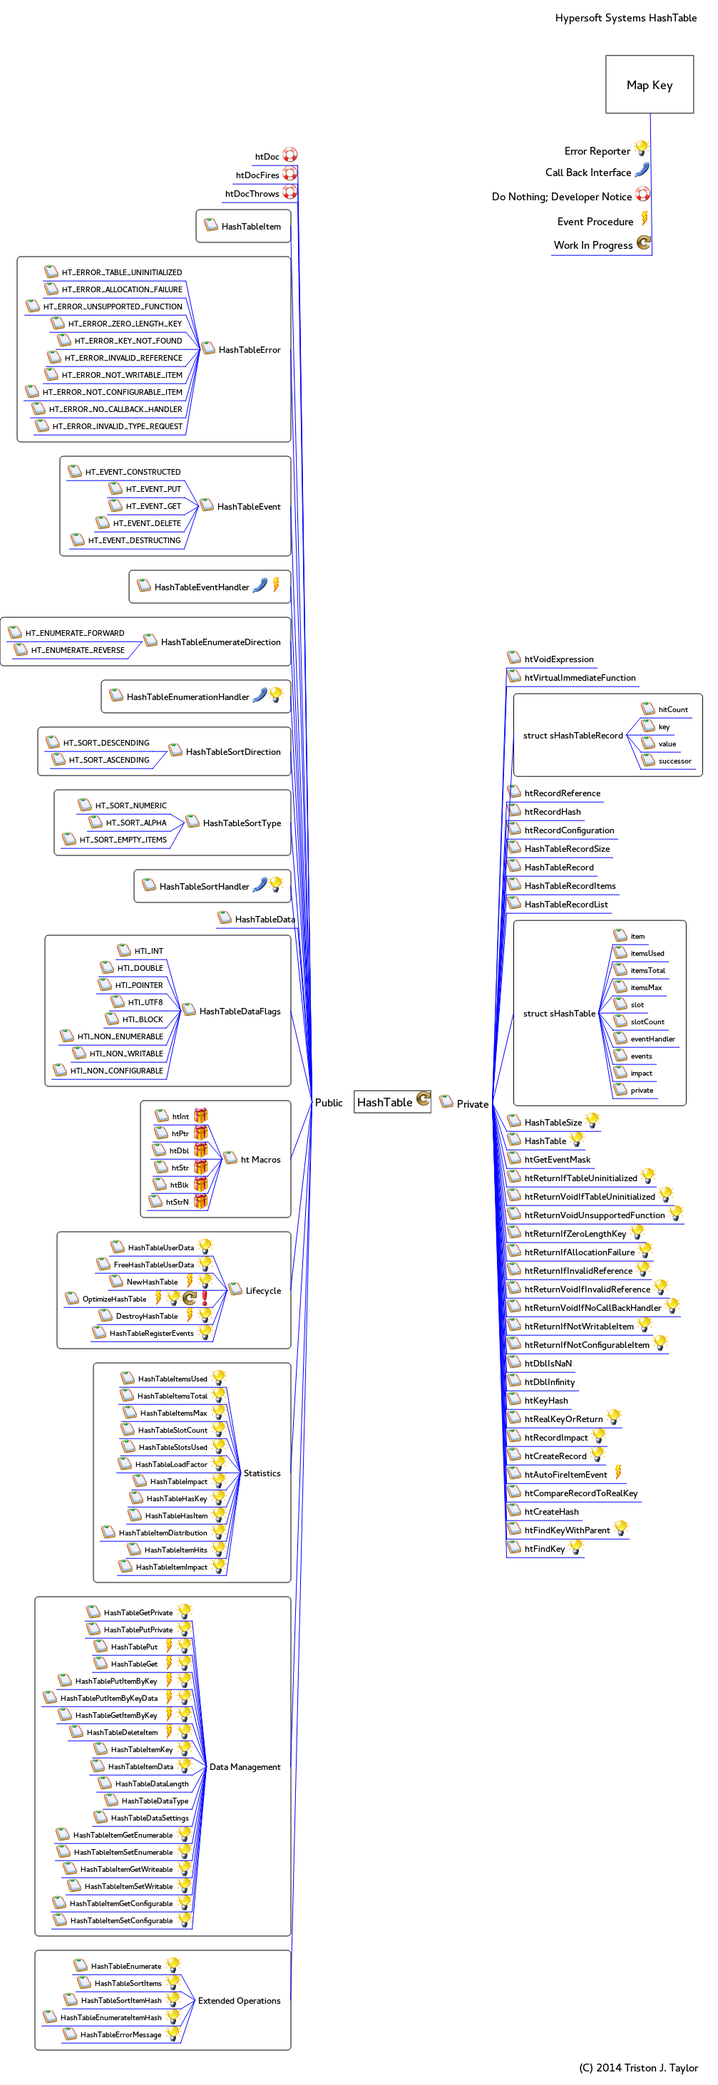
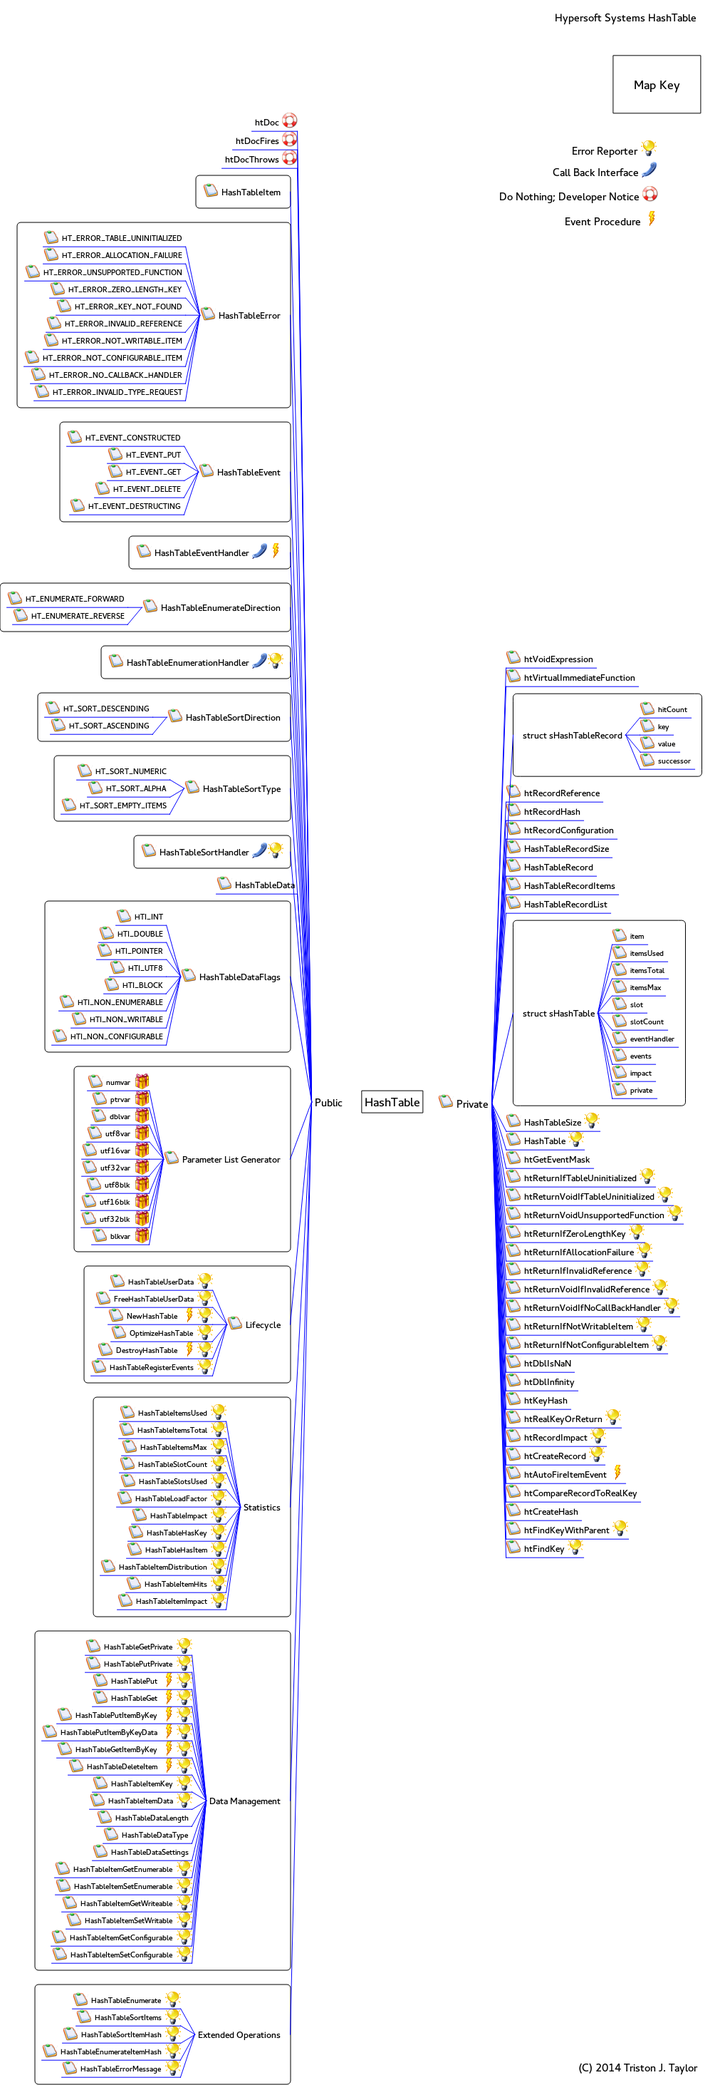
Documentation

diff --git a/HashTable.html b/HashTable.html
@@ -3,9 +3,8 @@
 <span class='vym-branch0'  id='mc:0'>Map Key</span><ul>
 <li><span class='vym-branch1'  id='mc:0,bo:0'>Event Procedure</span></li>
 <li><span class='vym-branch1'  id='mc:0,bo:1'>Call Back Interface</span></li>
-<li><span class='vym-branch1'  id='mc:0,bo:2'>Work In Progress</span></li>
-<li><span class='vym-branch1'  id='mc:0,bo:3'>Do Nothing; Developer Notice</span></li>
-<li><span class='vym-branch1'  id='mc:0,bo:4'>Error Reporter</span></li>
+<li><span class='vym-branch1'  id='mc:0,bo:2'>Do Nothing; Developer Notice</span></li>
+<li><span class='vym-branch1'  id='mc:0,bo:3'>Error Reporter</span></li>
 </ul>
 <span class='vym-branch0'  id='mc:1'>HashTable</span><ul>
 <li><span class='vym-branch1'  id='mc:1,bo:0'>Public</span><ul>
@@ -229,39 +228,59 @@ size_t HTI_NON_CONFIGURABLE<br/><br/>Do not delete, do not modify enumerable or 
 </li>
 </ul>
 </li>
-<li><span class='vym-branch2'  id='mc:1,bo:0,bo:14'>ht Macros</span>
+<li><span class='vym-branch2'  id='mc:1,bo:0,bo:14'>Parameter List Generator</span>
 <table class="vym-note"><tr><td>
 Use these macros to perform variant data requests between your application and the HashTable API.<br/>
 </td></tr></table>
 <ul>
-<li><span class='vym-branch3'  id='mc:1,bo:0,bo:14,bo:0'>htInt</span>
+<li><span class='vym-branch3'  id='mc:1,bo:0,bo:14,bo:0'>numvar</span>
 <table class="vym-note"><tr><td>
-parameter list htInt(size_t i)<br/><br/>Returns parameter list for API functions to diagnose and transpose an integer as a record key or value.<br/>
+parameter list numvar(size_t i)<br/><br/>Returns parameter list for API functions to diagnose and transpose an integer as a record key or value.<br/>
 </td></tr></table>
 </li>
-<li><span class='vym-branch3'  id='mc:1,bo:0,bo:14,bo:1'>htPtr</span>
+<li><span class='vym-branch3'  id='mc:1,bo:0,bo:14,bo:1'>ptrvar</span>
 <table class="vym-note"><tr><td>
-parameter list htPtr(void * p)<br/><br/>Returns parameter list for API functions to diagnose and transpose a pointer as a record key or value.<br/>
+parameter list ptrvar(void * p)<br/><br/>Returns parameter list for API functions to diagnose and transpose a pointer as a record key or value.<br/>
 </td></tr></table>
 </li>
-<li><span class='vym-branch3'  id='mc:1,bo:0,bo:14,bo:2'>htDbl</span>
+<li><span class='vym-branch3'  id='mc:1,bo:0,bo:14,bo:2'>dblvar</span>
 <table class="vym-note"><tr><td>
-parameter list htDbl(dobule d)<br/><br/>Returns parameter list for API functions to diagnose and transpose a double as a record key or value.<br/>
+parameter list dblvar(double d)<br/><br/>Returns parameter list for API functions to diagnose and transpose a double as a record key or value.<br/>
 </td></tr></table>
 </li>
-<li><span class='vym-branch3'  id='mc:1,bo:0,bo:14,bo:3'>htStr</span>
+<li><span class='vym-branch3'  id='mc:1,bo:0,bo:14,bo:3'>utf8var</span>
 <table class="vym-note"><tr><td>
-parameter list htStr(char * s)<br/><br/>Returns parameter list for API functions to diagnose and transpose an ANSI or UTF-8 string as a record key or value.<br/>
+parameter list utf8var(char * s)<br/><br/>Returns parameter list for API functions to diagnose and transpose an ANSI or UTF-8 string as a record key or value.<br/>
 </td></tr></table>
 </li>
-<li><span class='vym-branch3'  id='mc:1,bo:0,bo:14,bo:4'>htBlk</span>
+<li><span class='vym-branch3'  id='mc:1,bo:0,bo:14,bo:4'>utf16var</span>
 <table class="vym-note"><tr><td>
-parameter list htBlk(void * b, size_t length)<br/><br/>Returns parameter list for API functions to diagnose and transpose an arbitrary block of data with specified length as a record key or value.<br/>
+parameter list utf16var(char * s)<br/><br/>Returns parameter list for API functions to diagnose and transpose an UTF-16 string as a record key or value.<br/>
 </td></tr></table>
 </li>
-<li><span class='vym-branch3'  id='mc:1,bo:0,bo:14,bo:5'>htStrN</span>
+<li><span class='vym-branch3'  id='mc:1,bo:0,bo:14,bo:5'>utf32var</span>
 <table class="vym-note"><tr><td>
-parameter list htStrN(char * s, size_t length)<br/><br/>Returns parameter list for API functions to diagnose and transpose an arbitrary length ANSI or UTF-8 string pointer as a record key or value.<br/>
+parameter list utf32var(char * s)<br/><br/>Returns parameter list for API functions to diagnose and transpose an UTF-32 string as a record key or value.<br/>
+</td></tr></table>
+</li>
+<li><span class='vym-branch3'  id='mc:1,bo:0,bo:14,bo:6'>utf8blk</span>
+<table class="vym-note"><tr><td>
+parameter list utf8blk(char * s, size_t bytes)<br/><br/>Returns parameter list for API functions to diagnose and transpose an arbitrary length ANSI or UTF-8 string pointer as a record key or value.<br/><br/>
+</td></tr></table>
+</li>
+<li><span class='vym-branch3'  id='mc:1,bo:0,bo:14,bo:7'>utf16blk</span>
+<table class="vym-note"><tr><td>
+parameter list utf8var(char * s, size_t bytes)<br/><br/>Returns parameter list for API functions to diagnose and transpose an arbitrary length UTF-16 string pointer as a record key or value.<br/><br/>
+</td></tr></table>
+</li>
+<li><span class='vym-branch3'  id='mc:1,bo:0,bo:14,bo:8'>utf32blk</span>
+<table class="vym-note"><tr><td>
+parameter list utf8var(char * s, size_t bytes)<br/><br/>Returns parameter list for API functions to diagnose and transpose an arbitrary length UTF-32 string pointer as a record key or value.<br/><br/>
+</td></tr></table>
+</li>
+<li><span class='vym-branch3'  id='mc:1,bo:0,bo:14,bo:9'>blkvar</span>
+<table class="vym-note"><tr><td>
+parameter list blkvar(void * b, size_t bytes)<br/><br/>Returns parameter list for API functions to diagnose and transpose an arbitrary block of data with specified length as a record key or value.<br/>
 </td></tr></table>
 </li>
 </ul>
@@ -288,7 +307,7 @@ HashTable NewHashTable(size_t size, HashTableEvent withEvents, HashTableEventHan
 </li>
 <li><span class='vym-branch3'  id='mc:1,bo:0,bo:15,bo:3'>OptimizeHashTable</span>
 <table class="vym-note"><tr><td>
-void OptimizeHashTable(HashTable ht, size_t slots)<br/><br/>This function is defined but is not yet supported.<br/>
+void OptimizeHashTable(HashTable ht, size_t slots, size_t references)<br/><br/>Sort linear entries by existence, existing first...<br/><br/>If references are defined, the hash table items array will be resized to total items + references.<br/><br/>If slots are specified, a new slot array is procured and assigned each entry from the linear items.<br/><br/>
 </td></tr></table>
 </li>
 <li><span class='vym-branch3'  id='mc:1,bo:0,bo:15,bo:4'>DestroyHashTable</span>
@@ -746,111 +765,114 @@ HashTableRecord htFindKey(HashTable table, size_t keyLength, void * realKey)<br/
 <li><span class='vym-branch1'  id='mc:1,bo:3'>(C) 2014 Triston J. Taylor</span></li>
 </ul>
 <map name='imagemap'>
-  <area shape='rect' coords='874.892,102.851,947.892,133.851' href='#mc:0'>
-  <area shape='rect' coords='778.392,296.351,893.392,325.351' href='#mc:0,bo:0'>
-  <area shape='rect' coords='761.392,227.351,890.392,256.351' href='#mc:0,bo:1'>
-  <area shape='rect' coords='773.392,329.351,892.392,358.351' href='#mc:0,bo:2'>
-  <area shape='rect' coords='686.392,261.351,891.392,290.351' href='#mc:0,bo:3'>
-  <area shape='rect' coords='788.392,197.351,889.392,226.351' href='#mc:0,bo:4'>
-  <area shape='rect' coords='496.851,1530.13,582.851,1561.13' href='#mc:1'>
+  <area shape='rect' coords='885.892,102.851,958.892,133.851' href='#mc:0'>
+  <area shape='rect' coords='789.392,296.351,904.392,325.351' href='#mc:0,bo:0'>
+  <area shape='rect' coords='772.392,227.351,901.392,256.351' href='#mc:0,bo:1'>
+  <area shape='rect' coords='697.392,261.351,902.392,290.351' href='#mc:0,bo:2'>
+  <area shape='rect' coords='799.392,197.351,900.392,226.351' href='#mc:0,bo:3'>
+  <area shape='rect' coords='507.851,1530.13,593.851,1561.13' href='#mc:1'>
   <area shape='rect' coords='438,1531.52,485,1560.52' href='#mc:1,bo:0'>
-  <area shape='rect' coords='354,206.023,396,232.023' href='#mc:1,bo:0,bo:0'>
-  <area shape='rect' coords='327,232.023,396,258.023' href='#mc:1,bo:0,bo:1'>
-  <area shape='rect' coords='312,258.023,396,284.023' href='#mc:1,bo:0,bo:2'>
-  <area shape='rect' coords='307,304.023,398,330.023' href='#mc:1,bo:0,bo:3'>
-  <area shape='rect' coords='303,477.023,398,503.023' href='#mc:1,bo:0,bo:4'>
-  <area shape='rect' coords='83,370.023,261,394.023' href='#mc:1,bo:0,bo:4,bo:0'>
-  <area shape='rect' coords='83,394.023,261,418.023' href='#mc:1,bo:0,bo:4,bo:1'>
-  <area shape='rect' coords='57,418.023,261,442.023' href='#mc:1,bo:0,bo:4,bo:2'>
-  <area shape='rect' coords='92,442.023,261,466.023' href='#mc:1,bo:0,bo:4,bo:3'>
-  <area shape='rect' coords='101,466.023,261,490.023' href='#mc:1,bo:0,bo:4,bo:4'>
-  <area shape='rect' coords='87,490.023,261,514.023' href='#mc:1,bo:0,bo:4,bo:5'>
-  <area shape='rect' coords='83,514.023,261,538.023' href='#mc:1,bo:0,bo:4,bo:6'>
-  <area shape='rect' coords='56,538.023,261,562.023' href='#mc:1,bo:0,bo:4,bo:7'>
-  <area shape='rect' coords='65,562.023,261,586.023' href='#mc:1,bo:0,bo:4,bo:8'>
-  <area shape='rect' coords='70,586.023,261,610.023' href='#mc:1,bo:0,bo:4,bo:9'>
-  <area shape='rect' coords='301,697.023,398,723.023' href='#mc:1,bo:0,bo:5'>
-  <area shape='rect' coords='116,650.023,259,674.023' href='#mc:1,bo:0,bo:5,bo:0'>
-  <area shape='rect' coords='173,674.023,259,698.023' href='#mc:1,bo:0,bo:5,bo:1'>
-  <area shape='rect' coords='173,698.023,259,722.023' href='#mc:1,bo:0,bo:5,bo:2'>
-  <area shape='rect' coords='155,722.023,259,746.023' href='#mc:1,bo:0,bo:5,bo:3'>
-  <area shape='rect' coords='120,746.023,259,770.023' href='#mc:1,bo:0,bo:5,bo:4'>
-  <area shape='rect' coords='213,810.023,354,836.023' href='#mc:1,bo:0,bo:6'>
-  <area shape='rect' coords='222,887.023,398,913.023' href='#mc:1,bo:0,bo:7'>
-  <area shape='rect' coords='32,876.023,180,900.023' href='#mc:1,bo:0,bo:7,bo:0'>
-  <area shape='rect' coords='40,900.023,180,924.023' href='#mc:1,bo:0,bo:7,bo:1'>
-  <area shape='rect' coords='174,964.023,354,990.023' href='#mc:1,bo:0,bo:8'>
-  <area shape='rect' coords='257,1041.02,398,1067.02' href='#mc:1,bo:0,bo:9'>
-  <area shape='rect' coords='85,1030.02,215,1054.02' href='#mc:1,bo:0,bo:9,bo:0'>
-  <area shape='rect' coords='93,1054.02,215,1078.02' href='#mc:1,bo:0,bo:9,bo:1'>
-  <area shape='rect' coords='281,1141.02,398,1167.02' href='#mc:1,bo:0,bo:10'>
-  <area shape='rect' coords='130,1118.02,239,1142.02' href='#mc:1,bo:0,bo:10,bo:0'>
-  <area shape='rect' coords='145,1142.02,239,1166.02' href='#mc:1,bo:0,bo:10,bo:1'>
-  <area shape='rect' coords='108,1166.02,239,1190.02' href='#mc:1,bo:0,bo:10,bo:2'>
-  <area shape='rect' coords='220,1230.02,354,1256.02' href='#mc:1,bo:0,bo:11'>
-  <area shape='rect' coords='326,1276.02,418,1302.02' href='#mc:1,bo:0,bo:12'>
-  <area shape='rect' coords='276,1405.02,398,1431.02' href='#mc:1,bo:0,bo:13'>
-  <area shape='rect' coords='185,1322.02,234,1346.02' href='#mc:1,bo:0,bo:13,bo:0'>
-  <area shape='rect' coords='161,1346.02,234,1370.02' href='#mc:1,bo:0,bo:13,bo:1'>
-  <area shape='rect' coords='158,1370.02,234,1394.02' href='#mc:1,bo:0,bo:13,bo:2'>
-  <area shape='rect' coords='176,1394.02,234,1418.02' href='#mc:1,bo:0,bo:13,bo:3'>
-  <area shape='rect' coords='168,1418.02,234,1442.02' href='#mc:1,bo:0,bo:13,bo:4'>
-  <area shape='rect' coords='105,1442.02,234,1466.02' href='#mc:1,bo:0,bo:13,bo:5'>
-  <area shape='rect' coords='122,1466.02,234,1490.02' href='#mc:1,bo:0,bo:13,bo:6'>
-  <area shape='rect' coords='95,1490.02,234,1514.02' href='#mc:1,bo:0,bo:13,bo:7'>
-  <area shape='rect' coords='334,1613.02,398,1639.02' href='#mc:1,bo:0,bo:14'>
-  <area shape='rect' coords='238,1554.02,270,1578.02' href='#mc:1,bo:0,bo:14,bo:0'>
-  <area shape='rect' coords='237,1578.02,270,1602.02' href='#mc:1,bo:0,bo:14,bo:1'>
-  <area shape='rect' coords='234,1602.02,270,1626.02' href='#mc:1,bo:0,bo:14,bo:2'>
-  <area shape='rect' coords='237,1626.02,270,1650.02' href='#mc:1,bo:0,bo:14,bo:3'>
-  <area shape='rect' coords='235,1650.02,270,1674.02' href='#mc:1,bo:0,bo:14,bo:4'>
-  <area shape='rect' coords='229,1674.02,270,1698.02' href='#mc:1,bo:0,bo:14,bo:5'>
-  <area shape='rect' coords='341,1797.02,398,1823.02' href='#mc:1,bo:0,bo:15'>
-  <area shape='rect' coords='176,1738.02,277,1762.02' href='#mc:1,bo:0,bo:15,bo:0'>
-  <area shape='rect' coords='156,1762.02,277,1786.02' href='#mc:1,bo:0,bo:15,bo:1'>
-  <area shape='rect' coords='174,1786.02,255,1810.02' href='#mc:1,bo:0,bo:15,bo:2'>
-  <area shape='rect' coords='112,1810.02,211,1834.02' href='#mc:1,bo:0,bo:15,bo:3'>
-  <area shape='rect' coords='159,1834.02,255,1858.02' href='#mc:1,bo:0,bo:15,bo:4'>
-  <area shape='rect' coords='150,1858.02,277,1882.02' href='#mc:1,bo:0,bo:15,bo:5'>
-  <area shape='rect' coords='338,2053.02,398,2079.02' href='#mc:1,bo:0,bo:16'>
-  <area shape='rect' coords='190,1922.02,296,1946.02' href='#mc:1,bo:0,bo:16,bo:0'>
-  <area shape='rect' coords='189,1946.02,296,1970.02' href='#mc:1,bo:0,bo:16,bo:1'>
-  <area shape='rect' coords='193,1970.02,296,1994.02' href='#mc:1,bo:0,bo:16,bo:2'>
-  <area shape='rect' coords='190,1994.02,296,2018.02' href='#mc:1,bo:0,bo:16,bo:3'>
-  <area shape='rect' coords='191,2018.02,296,2042.02' href='#mc:1,bo:0,bo:16,bo:4'>
-  <area shape='rect' coords='186,2042.02,296,2066.02' href='#mc:1,bo:0,bo:16,bo:5'>
-  <area shape='rect' coords='207,2066.02,296,2090.02' href='#mc:1,bo:0,bo:16,bo:6'>
-  <area shape='rect' coords='202,2090.02,296,2114.02' href='#mc:1,bo:0,bo:16,bo:7'>
-  <area shape='rect' coords='200,2114.02,296,2138.02' href='#mc:1,bo:0,bo:16,bo:8'>
-  <area shape='rect' coords='163,2138.02,296,2162.02' href='#mc:1,bo:0,bo:16,bo:9'>
-  <area shape='rect' coords='199,2162.02,296,2186.02' href='#mc:1,bo:0,bo:16,bo:10'>
-  <area shape='rect' coords='187,2186.02,296,2210.02' href='#mc:1,bo:0,bo:16,bo:11'>
-  <area shape='rect' coords='290,2465.02,398,2491.02' href='#mc:1,bo:0,bo:17'>
-  <area shape='rect' coords='142,2250.02,248,2274.02' href='#mc:1,bo:0,bo:17,bo:0'>
-  <area shape='rect' coords='142,2274.02,248,2298.02' href='#mc:1,bo:0,bo:17,bo:1'>
-  <area shape='rect' coords='152,2298.02,226,2322.02' href='#mc:1,bo:0,bo:17,bo:2'>
-  <area shape='rect' coords='152,2322.02,226,2346.02' href='#mc:1,bo:0,bo:17,bo:3'>
-  <area shape='rect' coords='102,2346.02,226,2370.02' href='#mc:1,bo:0,bo:17,bo:4'>
-  <area shape='rect' coords='81,2370.02,226,2394.02' href='#mc:1,bo:0,bo:17,bo:5'>
-  <area shape='rect' coords='102,2394.02,226,2418.02' href='#mc:1,bo:0,bo:17,bo:6'>
-  <area shape='rect' coords='118,2418.02,226,2442.02' href='#mc:1,bo:0,bo:17,bo:7'>
-  <area shape='rect' coords='152,2442.02,248,2466.02' href='#mc:1,bo:0,bo:17,bo:8'>
-  <area shape='rect' coords='148,2466.02,248,2490.02' href='#mc:1,bo:0,bo:17,bo:9'>
-  <area shape='rect' coords='158,2490.02,270,2514.02' href='#mc:1,bo:0,bo:17,bo:10'>
-  <area shape='rect' coords='167,2514.02,270,2538.02' href='#mc:1,bo:0,bo:17,bo:11'>
-  <area shape='rect' coords='152,2538.02,270,2562.02' href='#mc:1,bo:0,bo:17,bo:12'>
-  <area shape='rect' coords='99,2562.02,248,2586.02' href='#mc:1,bo:0,bo:17,bo:13'>
-  <area shape='rect' coords='100,2586.02,248,2610.02' href='#mc:1,bo:0,bo:17,bo:14'>
-  <area shape='rect' coords='109,2610.02,248,2634.02' href='#mc:1,bo:0,bo:17,bo:15'>
-  <area shape='rect' coords='115,2634.02,248,2658.02' href='#mc:1,bo:0,bo:17,bo:16'>
-  <area shape='rect' coords='94,2658.02,248,2682.02' href='#mc:1,bo:0,bo:17,bo:17'>
-  <area shape='rect' coords='95,2682.02,248,2706.02' href='#mc:1,bo:0,bo:17,bo:18'>
-  <area shape='rect' coords='274,2793.02,398,2819.02' href='#mc:1,bo:0,bo:18'>
-  <area shape='rect' coords='124,2746.02,232,2770.02' href='#mc:1,bo:0,bo:18,bo:0'>
-  <area shape='rect' coords='129,2770.02,232,2794.02' href='#mc:1,bo:0,bo:18,bo:1'>
-  <area shape='rect' coords='110,2794.02,232,2818.02' href='#mc:1,bo:0,bo:18,bo:2'>
-  <area shape='rect' coords='81,2818.02,232,2842.02' href='#mc:1,bo:0,bo:18,bo:3'>
-  <area shape='rect' coords='109,2842.02,232,2866.02' href='#mc:1,bo:0,bo:18,bo:4'>
+  <area shape='rect' coords='354,158.023,396,184.023' href='#mc:1,bo:0,bo:0'>
+  <area shape='rect' coords='327,184.023,396,210.023' href='#mc:1,bo:0,bo:1'>
+  <area shape='rect' coords='312,210.023,396,236.023' href='#mc:1,bo:0,bo:2'>
+  <area shape='rect' coords='307,256.023,398,282.023' href='#mc:1,bo:0,bo:3'>
+  <area shape='rect' coords='303,429.023,398,455.023' href='#mc:1,bo:0,bo:4'>
+  <area shape='rect' coords='83,322.023,261,346.023' href='#mc:1,bo:0,bo:4,bo:0'>
+  <area shape='rect' coords='83,346.023,261,370.023' href='#mc:1,bo:0,bo:4,bo:1'>
+  <area shape='rect' coords='57,370.023,261,394.023' href='#mc:1,bo:0,bo:4,bo:2'>
+  <area shape='rect' coords='92,394.023,261,418.023' href='#mc:1,bo:0,bo:4,bo:3'>
+  <area shape='rect' coords='101,418.023,261,442.023' href='#mc:1,bo:0,bo:4,bo:4'>
+  <area shape='rect' coords='87,442.023,261,466.023' href='#mc:1,bo:0,bo:4,bo:5'>
+  <area shape='rect' coords='83,466.023,261,490.023' href='#mc:1,bo:0,bo:4,bo:6'>
+  <area shape='rect' coords='56,490.023,261,514.023' href='#mc:1,bo:0,bo:4,bo:7'>
+  <area shape='rect' coords='65,514.023,261,538.023' href='#mc:1,bo:0,bo:4,bo:8'>
+  <area shape='rect' coords='70,538.023,261,562.023' href='#mc:1,bo:0,bo:4,bo:9'>
+  <area shape='rect' coords='301,649.023,398,675.023' href='#mc:1,bo:0,bo:5'>
+  <area shape='rect' coords='116,602.023,259,626.023' href='#mc:1,bo:0,bo:5,bo:0'>
+  <area shape='rect' coords='173,626.023,259,650.023' href='#mc:1,bo:0,bo:5,bo:1'>
+  <area shape='rect' coords='173,650.023,259,674.023' href='#mc:1,bo:0,bo:5,bo:2'>
+  <area shape='rect' coords='155,674.023,259,698.023' href='#mc:1,bo:0,bo:5,bo:3'>
+  <area shape='rect' coords='120,698.023,259,722.023' href='#mc:1,bo:0,bo:5,bo:4'>
+  <area shape='rect' coords='213,762.023,354,788.023' href='#mc:1,bo:0,bo:6'>
+  <area shape='rect' coords='222,839.023,398,865.023' href='#mc:1,bo:0,bo:7'>
+  <area shape='rect' coords='32,828.023,180,852.023' href='#mc:1,bo:0,bo:7,bo:0'>
+  <area shape='rect' coords='40,852.023,180,876.023' href='#mc:1,bo:0,bo:7,bo:1'>
+  <area shape='rect' coords='174,916.023,354,942.023' href='#mc:1,bo:0,bo:8'>
+  <area shape='rect' coords='257,993.023,398,1019.02' href='#mc:1,bo:0,bo:9'>
+  <area shape='rect' coords='85,982.023,215,1006.02' href='#mc:1,bo:0,bo:9,bo:0'>
+  <area shape='rect' coords='93,1006.02,215,1030.02' href='#mc:1,bo:0,bo:9,bo:1'>
+  <area shape='rect' coords='281,1093.02,398,1119.02' href='#mc:1,bo:0,bo:10'>
+  <area shape='rect' coords='130,1070.02,239,1094.02' href='#mc:1,bo:0,bo:10,bo:0'>
+  <area shape='rect' coords='145,1094.02,239,1118.02' href='#mc:1,bo:0,bo:10,bo:1'>
+  <area shape='rect' coords='108,1118.02,239,1142.02' href='#mc:1,bo:0,bo:10,bo:2'>
+  <area shape='rect' coords='220,1182.02,354,1208.02' href='#mc:1,bo:0,bo:11'>
+  <area shape='rect' coords='326,1228.02,418,1254.02' href='#mc:1,bo:0,bo:12'>
+  <area shape='rect' coords='276,1357.02,398,1383.02' href='#mc:1,bo:0,bo:13'>
+  <area shape='rect' coords='185,1274.02,234,1298.02' href='#mc:1,bo:0,bo:13,bo:0'>
+  <area shape='rect' coords='161,1298.02,234,1322.02' href='#mc:1,bo:0,bo:13,bo:1'>
+  <area shape='rect' coords='158,1322.02,234,1346.02' href='#mc:1,bo:0,bo:13,bo:2'>
+  <area shape='rect' coords='176,1346.02,234,1370.02' href='#mc:1,bo:0,bo:13,bo:3'>
+  <area shape='rect' coords='168,1370.02,234,1394.02' href='#mc:1,bo:0,bo:13,bo:4'>
+  <area shape='rect' coords='105,1394.02,234,1418.02' href='#mc:1,bo:0,bo:13,bo:5'>
+  <area shape='rect' coords='122,1418.02,234,1442.02' href='#mc:1,bo:0,bo:13,bo:6'>
+  <area shape='rect' coords='95,1442.02,234,1466.02' href='#mc:1,bo:0,bo:13,bo:7'>
+  <area shape='rect' coords='252,1613.02,398,1639.02' href='#mc:1,bo:0,bo:14'>
+  <area shape='rect' coords='145,1506.02,188,1530.02' href='#mc:1,bo:0,bo:14,bo:0'>
+  <area shape='rect' coords='151,1530.02,188,1554.02' href='#mc:1,bo:0,bo:14,bo:1'>
+  <area shape='rect' coords='150,1554.02,188,1578.02' href='#mc:1,bo:0,bo:14,bo:2'>
+  <area shape='rect' coords='144,1578.02,188,1602.02' href='#mc:1,bo:0,bo:14,bo:3'>
+  <area shape='rect' coords='137,1602.02,188,1626.02' href='#mc:1,bo:0,bo:14,bo:4'>
+  <area shape='rect' coords='137,1626.02,188,1650.02' href='#mc:1,bo:0,bo:14,bo:5'>
+  <area shape='rect' coords='143,1650.02,188,1674.02' href='#mc:1,bo:0,bo:14,bo:6'>
+  <area shape='rect' coords='136,1674.02,188,1698.02' href='#mc:1,bo:0,bo:14,bo:7'>
+  <area shape='rect' coords='136,1698.02,188,1722.02' href='#mc:1,bo:0,bo:14,bo:8'>
+  <area shape='rect' coords='151,1722.02,188,1746.02' href='#mc:1,bo:0,bo:14,bo:9'>
+  <area shape='rect' coords='341,1845.02,398,1871.02' href='#mc:1,bo:0,bo:15'>
+  <area shape='rect' coords='176,1786.02,277,1810.02' href='#mc:1,bo:0,bo:15,bo:0'>
+  <area shape='rect' coords='156,1810.02,277,1834.02' href='#mc:1,bo:0,bo:15,bo:1'>
+  <area shape='rect' coords='174,1834.02,255,1858.02' href='#mc:1,bo:0,bo:15,bo:2'>
+  <area shape='rect' coords='178,1858.02,277,1882.02' href='#mc:1,bo:0,bo:15,bo:3'>
+  <area shape='rect' coords='159,1882.02,255,1906.02' href='#mc:1,bo:0,bo:15,bo:4'>
+  <area shape='rect' coords='150,1906.02,277,1930.02' href='#mc:1,bo:0,bo:15,bo:5'>
+  <area shape='rect' coords='338,2101.02,398,2127.02' href='#mc:1,bo:0,bo:16'>
+  <area shape='rect' coords='190,1970.02,296,1994.02' href='#mc:1,bo:0,bo:16,bo:0'>
+  <area shape='rect' coords='189,1994.02,296,2018.02' href='#mc:1,bo:0,bo:16,bo:1'>
+  <area shape='rect' coords='193,2018.02,296,2042.02' href='#mc:1,bo:0,bo:16,bo:2'>
+  <area shape='rect' coords='190,2042.02,296,2066.02' href='#mc:1,bo:0,bo:16,bo:3'>
+  <area shape='rect' coords='191,2066.02,296,2090.02' href='#mc:1,bo:0,bo:16,bo:4'>
+  <area shape='rect' coords='186,2090.02,296,2114.02' href='#mc:1,bo:0,bo:16,bo:5'>
+  <area shape='rect' coords='207,2114.02,296,2138.02' href='#mc:1,bo:0,bo:16,bo:6'>
+  <area shape='rect' coords='202,2138.02,296,2162.02' href='#mc:1,bo:0,bo:16,bo:7'>
+  <area shape='rect' coords='200,2162.02,296,2186.02' href='#mc:1,bo:0,bo:16,bo:8'>
+  <area shape='rect' coords='163,2186.02,296,2210.02' href='#mc:1,bo:0,bo:16,bo:9'>
+  <area shape='rect' coords='199,2210.02,296,2234.02' href='#mc:1,bo:0,bo:16,bo:10'>
+  <area shape='rect' coords='187,2234.02,296,2258.02' href='#mc:1,bo:0,bo:16,bo:11'>
+  <area shape='rect' coords='290,2513.02,398,2539.02' href='#mc:1,bo:0,bo:17'>
+  <area shape='rect' coords='142,2298.02,248,2322.02' href='#mc:1,bo:0,bo:17,bo:0'>
+  <area shape='rect' coords='142,2322.02,248,2346.02' href='#mc:1,bo:0,bo:17,bo:1'>
+  <area shape='rect' coords='152,2346.02,226,2370.02' href='#mc:1,bo:0,bo:17,bo:2'>
+  <area shape='rect' coords='152,2370.02,226,2394.02' href='#mc:1,bo:0,bo:17,bo:3'>
+  <area shape='rect' coords='102,2394.02,226,2418.02' href='#mc:1,bo:0,bo:17,bo:4'>
+  <area shape='rect' coords='81,2418.02,226,2442.02' href='#mc:1,bo:0,bo:17,bo:5'>
+  <area shape='rect' coords='102,2442.02,226,2466.02' href='#mc:1,bo:0,bo:17,bo:6'>
+  <area shape='rect' coords='118,2466.02,226,2490.02' href='#mc:1,bo:0,bo:17,bo:7'>
+  <area shape='rect' coords='152,2490.02,248,2514.02' href='#mc:1,bo:0,bo:17,bo:8'>
+  <area shape='rect' coords='148,2514.02,248,2538.02' href='#mc:1,bo:0,bo:17,bo:9'>
+  <area shape='rect' coords='158,2538.02,270,2562.02' href='#mc:1,bo:0,bo:17,bo:10'>
+  <area shape='rect' coords='167,2562.02,270,2586.02' href='#mc:1,bo:0,bo:17,bo:11'>
+  <area shape='rect' coords='152,2586.02,270,2610.02' href='#mc:1,bo:0,bo:17,bo:12'>
+  <area shape='rect' coords='99,2610.02,248,2634.02' href='#mc:1,bo:0,bo:17,bo:13'>
+  <area shape='rect' coords='100,2634.02,248,2658.02' href='#mc:1,bo:0,bo:17,bo:14'>
+  <area shape='rect' coords='109,2658.02,248,2682.02' href='#mc:1,bo:0,bo:17,bo:15'>
+  <area shape='rect' coords='115,2682.02,248,2706.02' href='#mc:1,bo:0,bo:17,bo:16'>
+  <area shape='rect' coords='94,2706.02,248,2730.02' href='#mc:1,bo:0,bo:17,bo:17'>
+  <area shape='rect' coords='95,2730.02,248,2754.02' href='#mc:1,bo:0,bo:17,bo:18'>
+  <area shape='rect' coords='274,2841.02,398,2867.02' href='#mc:1,bo:0,bo:18'>
+  <area shape='rect' coords='124,2794.02,232,2818.02' href='#mc:1,bo:0,bo:18,bo:0'>
+  <area shape='rect' coords='129,2818.02,232,2842.02' href='#mc:1,bo:0,bo:18,bo:1'>
+  <area shape='rect' coords='110,2842.02,232,2866.02' href='#mc:1,bo:0,bo:18,bo:2'>
+  <area shape='rect' coords='81,2866.02,232,2890.02' href='#mc:1,bo:0,bo:18,bo:3'>
+  <area shape='rect' coords='109,2890.02,232,2914.02' href='#mc:1,bo:0,bo:18,bo:4'>
   <area shape='rect' coords='637.471,1533.69,690.471,1562.69' href='#mc:1,bo:1'>
   <area shape='rect' coords='732.471,911.187,837.471,937.187' href='#mc:1,bo:1,bo:0'>
   <area shape='rect' coords='732.471,937.187,896.471,963.187' href='#mc:1,bo:1,bo:1'>
@@ -908,7 +930,7 @@ HashTableRecord htFindKey(HashTable table, size_t keyLength, void * realKey)<br/
 <table class="vym-footer">   
       <tr> 
         <td class="vym-footerL">HashTable.vym</td> 
-        <td class="vym-footerC">2014-02-26</td> 
+        <td class="vym-footerC">2014-02-28</td> 
         <td class="vym-footerR"> <a href='http://www.insilmaril.de/vym'>vym 2.2.4</a></td> 
       </tr> 
      </table>
